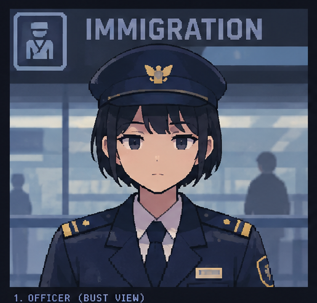
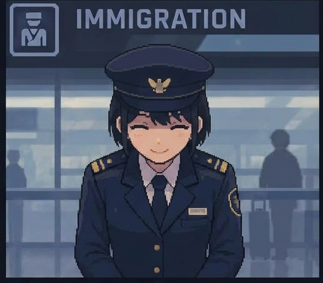
change bust-view image to a more welcoming pose increase arrival card width to 600

diff --git a/README.md b/README.md
@@ -1,4 +1,4 @@
-# ✈ HARRY INTERNATIONAL AIRPORT
+<!-- # ✈ HARRY INTERNATIONAL AIRPORT -->
 
 <!-- ## 01 — Arrival Detected -->
 
@@ -45,7 +45,7 @@ Please take your arrival card.
 
 <!-- <img src="https://placehold.co/360x190/F1E8D4/27374D?text=ARRIVAL+CARD%0A--------------------%0AORIGIN%3A+%7B%7Bcity%7D%7D%0APURPOSE%3A+PROFESSIONAL+CURIOSITY%0ASTATUS%3A+APPROVED&font=roboto" alt="Approved visitor arrival card" width="360"/> -->
 
-<img src="https://airport-welcomer.mrdinhdinh.workers.dev/readme-immigration-printer.svg" alt="Approved visitor arrival card" width="480"/>
+<img src="https://airport-welcomer.mrdinhdinh.workers.dev/readme-immigration-printer.svg" alt="Approved visitor arrival card" width="600"/>
 
 Following routine administrative review, entry to this profile is hereby authorized.
 
